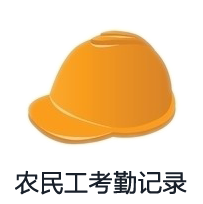
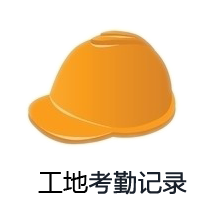
噪声前缀0修复

Changed region(s): [[0.0591, 0.8235, 0.4433, 0.9706]]

diff --git a/src/com/yz/utils/TestMain.java b/src/com/yz/utils/TestMain.java
@@ -8,10 +8,13 @@ public class TestMain {
 	
 	public static void main(String[] args) {
 		
-		DustJson dustJson = new DustJson();
-		dustJson.setData("1");
-		JSONObject jsonObject = JSONObject.fromObject(dustJson);
-		System.out.println(jsonObject);
+		String noiseData = "0n123123";
+		if(noiseData!=null&&noiseData.length()>0&&noiseData.substring(0, 1).equals("0"))
+		{
+			noiseData = noiseData.substring(1, noiseData.length());
+		}
+		System.out.println(noiseData);
+
 	}
 
 }

diff --git a/src/com/yz/protocol/NoiseDataCmdFactory.java b/src/com/yz/protocol/NoiseDataCmdFactory.java
@@ -45,6 +45,11 @@ public class NoiseDataCmdFactory extends CmdFactoryBase implements ICmdParser {
 
 		String noiseData = DataConvertor.toAsciiString(data, 1, 5);
 		// String noiseData =
+		
+		if(noiseData!=null&&noiseData.length()>0&&noiseData.substring(0, 1).equals("0"))
+		{
+			noiseData = noiseData.substring(1, noiseData.length());
+		}
 
 		// 保存噪音数据
 		Noise noise = NoiseAction.noiseRealTime;
